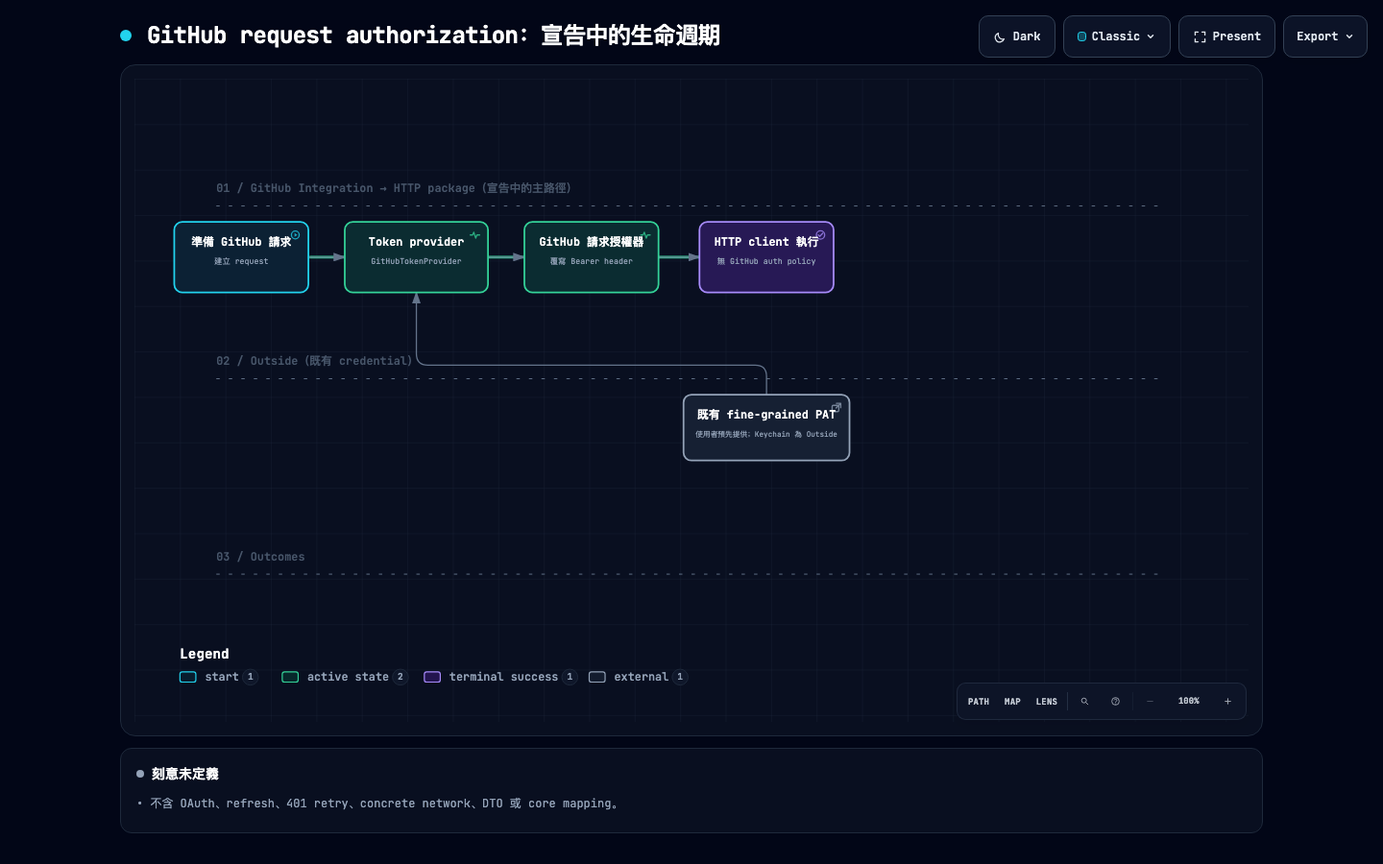
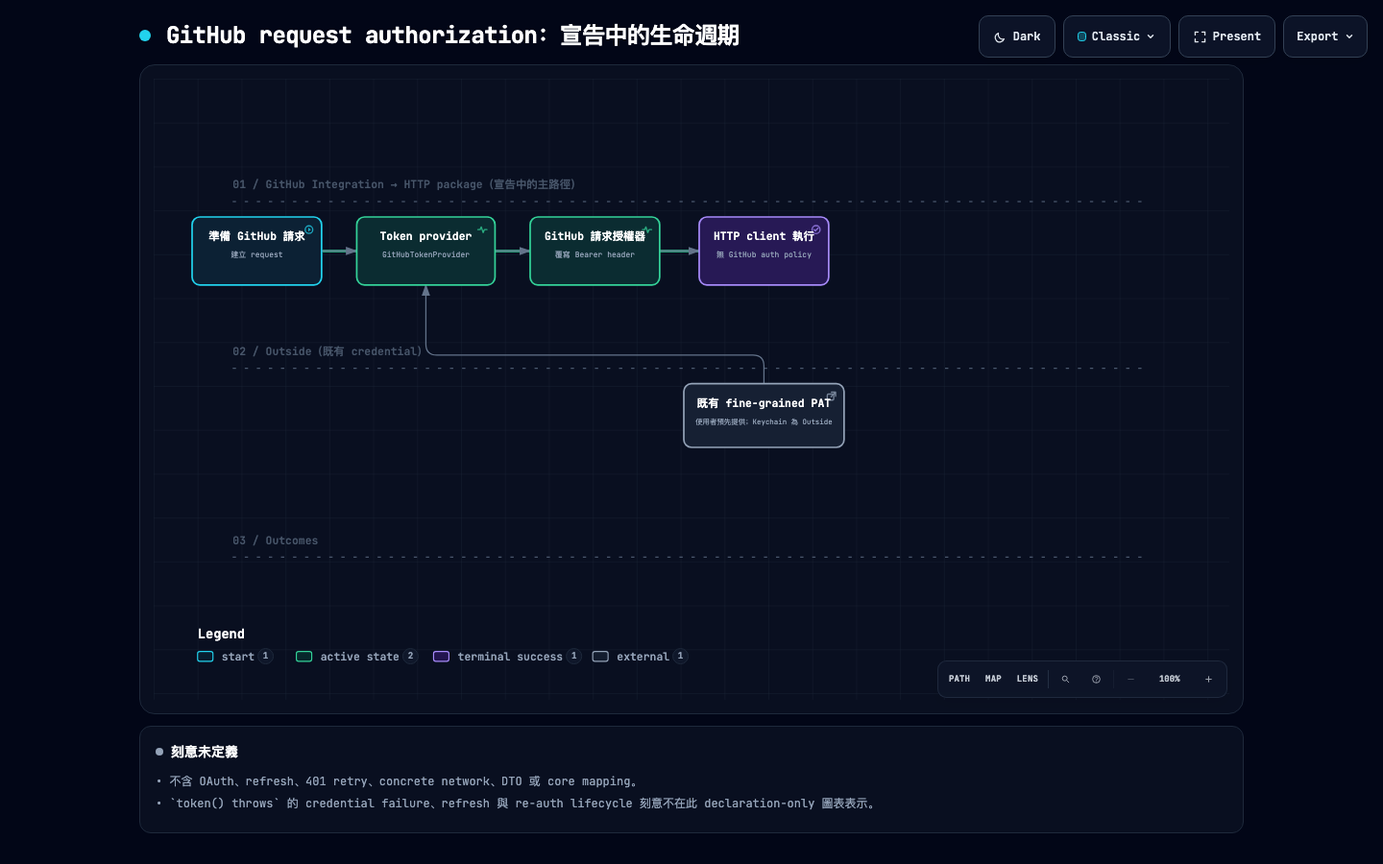
docs(github-integration): 回應授權邊界審查

diff --git a/docs/architecture/diagrams/github-integration-http-client-boundary/index.html b/docs/architecture/diagrams/github-integration-http-client-boundary/index.html
@@ -301,7 +301,8 @@
   // ======================== SCENE START (generated) =========================
 const W = 1480, H = 1800;
 
-// 此圖只記錄 ownership 與 compile-time boundary；不把 HTTP 呼叫畫成 core BC 的 runtime flow。
+// 此圖只記錄 ownership 與 compile-time boundary；request preparation 的 runtime lifecycle
+// 由同目錄的 github-authorization-lifecycle artifact 獨立表達。
 const PLANES = {
   core:        { c: '#7DD3FC', label: '核心 Bounded Context' },
   integration: { c: '#F6821F', label: 'GitHub Integration' },
@@ -365,7 +366,7 @@ const BOXES = [
     texts:[['bl',224,1318,'Foundation URLRequest／URL／Data'],['bs',224,1340,'package 直接使用的 Foundation types']] },
   { id:'credential', plane:'outside', band:'band-outside', x:620,y:1290,w:360,h:68,r:10,
     name:'使用者設定 PAT／Keychain',about:'既有的單一 fine-grained PAT 與其儲存位置都在 Outside；本 topic 不決定 concrete adapter。',
-    texts:[['bl',644,1318,'使用者設定 PAT／Keychain'],['bs',644,1340,'Outside；future provider 讀取']] },
+    texts:[['bl',644,1318,'使用者設定 PAT／Keychain'],['bs',644,1340,'Outside；不屬於 HTTP package']] },
   { id:'urlsession', plane:'outside', band:'band-outside', x:1040,y:1290,w:360,h:68,r:10,
     name:'URLSession／GitHub.com API',about:'future concrete transport 與外部 API；不在此切片實作。',
     texts:[['bl',1064,1318,'URLSession／GitHub.com API'],['bs',1064,1340,'future implementation surface']] }
@@ -376,9 +377,6 @@ const EDGES = [
   { from:'adapter',to:'reader-port',pts:[[470,504],[470,420],[605,420],[605,334]],label:{s:'al',x:619,y:386,t:'符合 Reader Port',rot:-90,anchor:'center'} },
   { from:'adapter',to:'domain-url',pts:[[744,554],[874,554]],label:{s:'al',x:809,y:542,t:'呼叫端組裝',anchor:'center'} },
   { from:'domain-url',to:'http-url',pts:[[1150,604],[1150,860],[335,860],[335,974]],label:{s:'al',x:349,y:726,t:'提供 URL',rot:-90,anchor:'center'} },
-  { from:'token-provider',to:'request-authorizer',pts:[[744,702],[874,702]],label:{s:'al',x:809,y:690,t:'future token delivery',anchor:'center'} },
-  { from:'credential',to:'token-provider',pts:[[800,1284],[800,790],[470,790],[470,760]],label:{s:'al',x:484,y:810,t:'既有 PAT',rot:-90,anchor:'center'} },
-  { from:'request-authorizer',to:'request',pts:[[1150,760],[1150,880],[635,880],[635,974]],label:{s:'al',x:649,y:832,t:'Bearer header',rot:-90,anchor:'center'} },
   { from:'request',to:'http-url',pts:[[494,1024],[474,1024]],label:{s:'al',x:484,y:1012,t:'依賴',anchor:'center'} },
   { from:'client',to:'request',pts:[[794,1024],[776,1024]],label:{s:'al',x:785,y:1012,t:'使用',anchor:'center'} },
   { from:'client',to:'transport',pts:[[1074,1024],[1094,1024]],label:{s:'al',x:1084,y:1012,t:'注入依賴',anchor:'center'} },
@@ -389,13 +387,13 @@ const EDGES = [
 const TEXTS = [
   {s:'title',x:160,y:86,t:'Rivet — GitHub Integration 與 HTTP Client 邊界'},
   {s:'sub',x:160,y:118,t:'Integration 擁有 future authorization seam；HTTP package 維持最小 raw request interface'},
-  {s:'tag',x:160,y:146,runs:[{t:'GitHubTokenProvider',fill:planeColor('integration')},{t:' → ',fill:'#4A5462'},{t:'request authorizer',fill:planeColor('integration')},{t:' → ',fill:'#4A5462'},{t:'HTTPRequest',fill:planeColor('package')},{t:' → ',fill:'#4A5462'},{t:'HTTPClient',fill:planeColor('package')}]},
+  {s:'tag',x:160,y:146,runs:[{t:'Integration-owned authorization seam',fill:planeColor('integration')},{t:' · ',fill:'#4A5462'},{t:'HTTP package raw request interface',fill:planeColor('package')}]},
   {s:'legend',x:1082,y:86,t:'虛線 — Rivet 擁有的 abstraction'},
   {s:'legend',x:1082,y:110,t:'實線 — Foundation 或外部 surface'},
   {s:'legend',x:1143,y:134,t:'顏色 — 所屬的責任 plane'},
   {s:'bn',x:160,y:1530,t:'不變量：HTTP、token 與 infrastructure failure 不得跨越 PR Inbox 或 PR Reader 的 Port'},
   {s:'bn',x:160,y:1550,t:'不變量：RivetHTTPClient 不持有 token、沒有 TokenProvider API，也不處理 refresh 或 401 retry'},
-  {s:'bn',x:160,y:1570,t:'宣告而非實作：future provider／authorizer 屬 GitHub Integration；Keychain 與 PAT 都是 Outside'},
+  {s:'bn',x:160,y:1570,t:'宣告而非實作：future provider／authorizer 屬 GitHub Integration；Keychain 與 PAT 都是 Outside；runtime lifecycle 見獨立圖'},
   {s:'bn',x:160,y:1590,t:'延後：URLSessionTransport、OAuth、Keychain adapter、retry、status validation、decode policy 與 GitHub DTO mapping'}
 ];
 const SWATCHES = [

diff --git a/docs/architecture/diagrams/github-integration-http-client-boundary/scene.js b/docs/architecture/diagrams/github-integration-http-client-boundary/scene.js
@@ -1,6 +1,7 @@
 const W = 1480, H = 1800;
 
-// 此圖只記錄 ownership 與 compile-time boundary；不把 HTTP 呼叫畫成 core BC 的 runtime flow。
+// 此圖只記錄 ownership 與 compile-time boundary；request preparation 的 runtime lifecycle
+// 由同目錄的 github-authorization-lifecycle artifact 獨立表達。
 const PLANES = {
   core:        { c: '#7DD3FC', label: '核心 Bounded Context' },
   integration: { c: '#F6821F', label: 'GitHub Integration' },
@@ -64,7 +65,7 @@ const BOXES = [
     texts:[['bl',224,1318,'Foundation URLRequest／URL／Data'],['bs',224,1340,'package 直接使用的 Foundation types']] },
   { id:'credential', plane:'outside', band:'band-outside', x:620,y:1290,w:360,h:68,r:10,
     name:'使用者設定 PAT／Keychain',about:'既有的單一 fine-grained PAT 與其儲存位置都在 Outside；本 topic 不決定 concrete adapter。',
-    texts:[['bl',644,1318,'使用者設定 PAT／Keychain'],['bs',644,1340,'Outside；future provider 讀取']] },
+    texts:[['bl',644,1318,'使用者設定 PAT／Keychain'],['bs',644,1340,'Outside；不屬於 HTTP package']] },
   { id:'urlsession', plane:'outside', band:'band-outside', x:1040,y:1290,w:360,h:68,r:10,
     name:'URLSession／GitHub.com API',about:'future concrete transport 與外部 API；不在此切片實作。',
     texts:[['bl',1064,1318,'URLSession／GitHub.com API'],['bs',1064,1340,'future implementation surface']] }
@@ -75,9 +76,6 @@ const EDGES = [
   { from:'adapter',to:'reader-port',pts:[[470,504],[470,420],[605,420],[605,334]],label:{s:'al',x:619,y:386,t:'符合 Reader Port',rot:-90,anchor:'center'} },
   { from:'adapter',to:'domain-url',pts:[[744,554],[874,554]],label:{s:'al',x:809,y:542,t:'呼叫端組裝',anchor:'center'} },
   { from:'domain-url',to:'http-url',pts:[[1150,604],[1150,860],[335,860],[335,974]],label:{s:'al',x:349,y:726,t:'提供 URL',rot:-90,anchor:'center'} },
-  { from:'token-provider',to:'request-authorizer',pts:[[744,702],[874,702]],label:{s:'al',x:809,y:690,t:'future token delivery',anchor:'center'} },
-  { from:'credential',to:'token-provider',pts:[[800,1284],[800,790],[470,790],[470,760]],label:{s:'al',x:484,y:810,t:'既有 PAT',rot:-90,anchor:'center'} },
-  { from:'request-authorizer',to:'request',pts:[[1150,760],[1150,880],[635,880],[635,974]],label:{s:'al',x:649,y:832,t:'Bearer header',rot:-90,anchor:'center'} },
   { from:'request',to:'http-url',pts:[[494,1024],[474,1024]],label:{s:'al',x:484,y:1012,t:'依賴',anchor:'center'} },
   { from:'client',to:'request',pts:[[794,1024],[776,1024]],label:{s:'al',x:785,y:1012,t:'使用',anchor:'center'} },
   { from:'client',to:'transport',pts:[[1074,1024],[1094,1024]],label:{s:'al',x:1084,y:1012,t:'注入依賴',anchor:'center'} },
@@ -88,13 +86,13 @@ const EDGES = [
 const TEXTS = [
   {s:'title',x:160,y:86,t:'Rivet — GitHub Integration 與 HTTP Client 邊界'},
   {s:'sub',x:160,y:118,t:'Integration 擁有 future authorization seam；HTTP package 維持最小 raw request interface'},
-  {s:'tag',x:160,y:146,runs:[{t:'GitHubTokenProvider',fill:planeColor('integration')},{t:' → ',fill:'#4A5462'},{t:'request authorizer',fill:planeColor('integration')},{t:' → ',fill:'#4A5462'},{t:'HTTPRequest',fill:planeColor('package')},{t:' → ',fill:'#4A5462'},{t:'HTTPClient',fill:planeColor('package')}]},
+  {s:'tag',x:160,y:146,runs:[{t:'Integration-owned authorization seam',fill:planeColor('integration')},{t:' · ',fill:'#4A5462'},{t:'HTTP package raw request interface',fill:planeColor('package')}]},
   {s:'legend',x:1082,y:86,t:'虛線 — Rivet 擁有的 abstraction'},
   {s:'legend',x:1082,y:110,t:'實線 — Foundation 或外部 surface'},
   {s:'legend',x:1143,y:134,t:'顏色 — 所屬的責任 plane'},
   {s:'bn',x:160,y:1530,t:'不變量：HTTP、token 與 infrastructure failure 不得跨越 PR Inbox 或 PR Reader 的 Port'},
   {s:'bn',x:160,y:1550,t:'不變量：RivetHTTPClient 不持有 token、沒有 TokenProvider API，也不處理 refresh 或 401 retry'},
-  {s:'bn',x:160,y:1570,t:'宣告而非實作：future provider／authorizer 屬 GitHub Integration；Keychain 與 PAT 都是 Outside'},
+  {s:'bn',x:160,y:1570,t:'宣告而非實作：future provider／authorizer 屬 GitHub Integration；Keychain 與 PAT 都是 Outside；runtime lifecycle 見獨立圖'},
   {s:'bn',x:160,y:1590,t:'延後：URLSessionTransport、OAuth、Keychain adapter、retry、status validation、decode policy 與 GitHub DTO mapping'}
 ];
 const SWATCHES = [

diff --git a/docs/architecture/diagrams/github-integration-http-client-boundary/github-authorization-lifecycle.html b/docs/architecture/diagrams/github-integration-http-client-boundary/github-authorization-lifecycle.html
@@ -5323,6 +5323,7 @@
         </div>
         <ul>
           <li>&bull; 不含 OAuth、refresh、401 retry、concrete network、DTO 或 core mapping。</li>
+          <li>&bull; `token() throws` 的 credential failure、refresh 與 re-auth lifecycle 刻意不在此 declaration-only 圖表表示。</li>
         </ul>
       </div>
     </div>

diff --git a/plan/github-integration-auth-boundary/github-integration-auth-boundary.step.md b/plan/github-integration-auth-boundary/github-integration-auth-boundary.step.md
@@ -2,7 +2,7 @@
 
 ## Phase
 
-RV-01 approved；awaiting HR-01 human review
+RV-02 approved；awaiting HR-02 human review
 
 ## Steps
 
@@ -10,16 +10,20 @@ RV-01 approved；awaiting HR-01 human review
 | --- | --- | --- | --- | --- | --- |
 | PC-01 | Plan-Creator | completed | 僅建立與 remediation 四份同 slug planning artifacts；不交付或驗證 long-lived docs／diagram artifacts。 | 四份 artifacts 的 contract、scope、候選產物處理與角色 gate 一致；不宣稱 approval。 | Plan-Reviewer `needs-rework` 已回饋；本次 remediation 將 long-lived delivery 移至 IM-01，加入 TE-01、RV-01 與 HR-01，並記錄 historical deviation。 |
 | PR-01 | Plan-Reviewer | approved | 獨立重審四份 planning artifacts、workflow contract 與 scope drift。 | verdict 明確為 approved、needs-rework 或 blocked；只有 approved 才可進入 IM-01。 | 獨立 Plan-Reviewer final verdict：approved；四份 artifacts complete，workflow／candidate cleanup／contract-only 已驗證，且 `git diff --check` 通過。此為獨立 review evidence，非 Plan-Creator 自我 approval。 |
-| IM-01 | Implementer | completed | 僅在 PR-01 approved 後，對 final long-lived docs／diagrams 執行受限 delivery：確認 canonical contract、移除兩組 containment candidate、交付 canonical lifecycle 與 canvas。 | candidate 已移除；交付僅含 canonical lifecycle JSON／HTML／canonical visual-check evidence；BC 文件、architecture README 與 canvas 符合 locked contract；無 Swift implementation。 | canonical delivery 已存在於 `docs/architecture/README.md`、`bounded-contexts/github-integration.md`、Integration／HTTP canvas（`scene.js`／`index.html`）及 `github-authorization-lifecycle.{json,html,visual-check.*}`。兩組 containment candidate 共 16 個檔案已移除；`git ls-files`、`git log --all` 與 worktree path search 均無命中，無法由 Git 還原。既有 canvas receipt：validate → build → enhance → accessibility verify 通過。既有 Archify receipt：showcase validate、deliver、four desktop viewport（1440×900、1600×1000、1920×1080、2048×1320；light／dark）visual-check 通過；receipt `status: pass`、四種 viewport 均無 X/Y overflow、minimum projected node text 6.5px ≥ 6px。交付 diff 無 Swift／`packages/RivetHTTPClient` scope。此為 Implementer reconciliation evidence，非 Tester verdict。 |
+| IM-01 | Implementer | completed | 僅在 PR-01 approved 後，對 final long-lived docs／diagrams 執行受限 delivery：確認 canonical contract、移除兩組 containment candidate、交付 canonical lifecycle 與 canvas。 | candidate 已移除；交付僅含 canonical lifecycle JSON／HTML／canonical visual-check evidence；BC 文件、architecture README 與 canvas 符合 locked contract；無 Swift implementation。 | canonical delivery 已存在於 `docs/architecture/README.md`、`bounded-contexts/github-integration.md`、Integration／HTTP canvas（`scene.js`／`index.html`）及 `github-authorization-lifecycle.{json,html,visual-check.*}`。兩組 containment candidate 共 16 個檔案已移除；`git ls-files`、`git log --all` 與 worktree path search 均無命中，無法由 Git 還原。既有 canvas receipt：validate → build → enhance → accessibility verify 通過。既有 Archify receipt：showcase validate、deliver、四種 desktop viewport（1440×900、1600×1000、1920×1080、2048×1320）的 light containment／readability 通過；另有 1440×900 與 2048×1320 的 light／dark captures。receipt `status: pass`、四種 viewport 均無 X/Y overflow、minimum projected node text 6.5px ≥ 6px。交付 diff 無 Swift／`packages/RivetHTTPClient` scope。此為 Implementer reconciliation evidence，非 Tester verdict。 |
[1 lines of base64/hex data omitted]
 | RV-01 | Reviewer | approved | 僅在 TE-01 completed 後，獨立審查 contract、scope、workflow 與 Tester evidence。 | verdict 明確；任何 scope／contract／workflow drift 優先保守收斂。 | 獨立 Reviewer verdict：`approved`。contract、scope 與 evidence 均 approved；Chrome DevTools `SIGABRT` 導致 fresh visual-check 未完成的 environment exception 已被接受，但必須在 draft PR 原樣揭露。此為獨立 review evidence，非 Plan-Creator 自我 approval。 |
 | HR-01 | Human review | pending | 僅在 RV-01 approved 後，由 human 審查 draft PR／delivery。 | human 明確決定後續處置；不得由任何 agent 視同 approval。 | human decision。 |
[2 lines of base64/hex data omitted]
+| RV-02 | Reviewer | approved | 僅在 TE-02 completed 後，獨立審查 review remediation、scope 與 evidence。 | verdict 明確；任何 drift 優先保守收斂。 | 獨立 Reviewer verdict：`approved`。PR #17 threads 1–8 remediation、static／receipt／current SHA binding／scope evidence 均已接受；TE-02 的 human-authorized same-SHA environment exception 已接受。Tester fresh visual-check 的 Chrome DevTools intermittent `SIGABRT` 未被誤稱為 pass，且必須原樣保留在 PR。此為獨立 review evidence，非 Plan-Creator 自我 approval。 |
+| HR-02 | Human review | pending | 僅在 RV-02 approved 後，由 human 對更新後 PR delivery 進行 review。 | human 明確決定後續處置；不得由任何 agent 視同 approval。 | 待 human decision。 |
 
 ## Blockers
 
 無已知 implementation blocker。歷史 workflow deviation 已發現：long-lived docs、canvas、canonical lifecycle artifact 與兩組 containment candidate 曾在 Plan-Creator 階段出現在 worktree。此事實不代表 approval，亦不改寫角色歷史。PR-01 已由獨立 Plan-Reviewer approved；human 已明確授權繼任 Implementer 將 IM-01 標記 completed 並記錄既有 delivery evidence。
 
[2 lines of base64/hex data omitted]
 
 ## Human Check
 
@@ -27,30 +31,41 @@ Human 必須在 draft PR 檢查 architecture boundary 是否維持：GitHub Inte
 
 ## Handoff
 
-- Current phase：RV-01 approved；僅可進入 HR-01 human review。
-- Upstream verdict：`approved`；source 為獨立 Plan-Reviewer final verdict。
+- Current phase：RV-02 approved；僅可進入 HR-02 human review。
+- Upstream verdict：`approved`；source 為獨立 Reviewer RV-02 verdict。PR-01 的 Plan-Reviewer approval 與 RV-01 的獨立 Reviewer approval 保留在各自 gate evidence。
 - Completed gate：IM-01；source 為 human 明確授權與 Implementer reconciliation evidence。
 - Completed gate：TE-01 with exception；receipt metadata remediation 已重新驗證。既有 Archify／canvas／scope evidence及 historical visual-check receipt 仍受限；fresh visual-check 沒有本輪 pass，Chrome DevTools `SIGABRT` 必須原樣保留。
 - Completed gate：RV-01；獨立 Reviewer 已 approved contract、scope 與 evidence，並接受 fresh visual-check 的 Chrome DevTools `SIGABRT` environment exception；draft PR 必須原樣揭露。
+- Completed gate：IM-02；PR #17 threads 1–8 的 Implementer remediation 已交付 fresh current lifecycle receipt。
+- Completed gate：TE-02 with exception；獨立 Tester 已驗證 current receipt／HTML binding、static canvas／Archify pipeline、candidate absence、絕對路徑清理與 scope。Chrome DevTools intermittent `SIGABRT` 阻止本輪獨立 visual-check；human 接受 Implementer same-SHA fresh pass 與 Tester frozen deliver／canonical HTML byte identity 的受限 environment exception，未宣稱 Tester independent pass。
+- Completed gate：RV-02；獨立 Reviewer 已接受 PR #17 threads 1–8 remediation、static／receipt／current SHA binding／scope evidence，以及 TE-02 的 human-authorized same-SHA environment exception。Tester fresh visual-check 的 Chrome DevTools intermittent `SIGABRT` 未被誤稱為 pass，且必須原樣保留在 PR。
 - Requested next owner：Human review。
-- Next gate：HR-01；等待 human 對 draft PR／delivery 作出明確決定，不得由任何 agent 視同 approval。
+- Next gate：HR-02；等待 human 對更新後 PR delivery 作出明確決定，不得由任何 agent 視同 approval。
 
 ## Last Updated
 
-2026-09-07（Plan-Reviewer `needs-rework` remediation completed：補齊 Last Updated 與 upstream verdict `null`；PR-01 仍 pending，未取得 approval。）
+下列為 2026-09-07 同日紀錄的明確歷史順序（01 最早、09 最新）；每筆只描述當時狀態，不代表目前 gate。
 
-2026-09-07（獨立 Plan-Reviewer final verdict `approved`：四份 artifacts complete、workflow／candidate cleanup／contract-only 已驗證，且 `git diff --check` 通過；本次僅如實更新 PR-01 ledger，非 Plan-Creator 自我 approval。）
+2026-09-07／01（當時狀態：Plan-Reviewer `needs-rework` remediation completed；補齊 Last Updated 與 upstream verdict `null`；PR-01 仍 pending，未取得 approval。）
 
-2026-09-07（最小 ledger correction：PR-01 已 approved；等待 IM-01 evidence reconciliation，之後進入 TE-01；未宣稱 IM-01 completed。）
+2026-09-07／02（當時狀態：獨立 Plan-Reviewer final verdict `approved`；四份 artifacts complete、workflow／candidate cleanup／contract-only 已驗證，且 `git diff --check` 通過；本次僅如實更新 PR-01 ledger，非 Plan-Creator 自我 approval。）
 
-2026-09-07（human 明確授權：IM-01 標記 `completed` 並記錄既有 canonical docs／canvas／lifecycle delivery evidence。Implementer 已如實記錄 16 個 containment candidate 移除且無 Git 可還原來源、canvas validate/build/enhance/accessibility verify、Archify validate/deliver／four desktop viewport visual-check、candidate absence 與無 Swift scope；轉交 TE-01 獨立驗證。）
+2026-09-07／03（當時狀態：最小 ledger correction；PR-01 已 approved；等待 IM-01 evidence reconciliation，之後進入 TE-01；未宣稱 IM-01 completed。）
 
-2026-09-07（human 明確授權 environment exception：Chrome 重裝後 fresh Archify visual-check 仍因 Chrome DevTools `SIGABRT` 無法完成。TE-01 可使用 canonical lifecycle 既有 four-viewport pass receipt 與 frozen JSON deliver HTML 的 SHA evidence 繼續，但不得宣稱本輪 visual-check pass；此 limitation 必須在 Tester report 明示並交由 RV-01 審查。）
+2026-09-07／04（當時狀態：human 明確授權 IM-01 標記 `completed` 並記錄既有 canonical docs／canvas／lifecycle delivery evidence。Implementer 已如實記錄 16 個 containment candidate 移除且無 Git 可還原來源、canvas validate/build/enhance/accessibility verify、Archify validate/deliver／four desktop viewport visual-check、candidate absence 與無 Swift scope；轉交 TE-01 獨立驗證。）
 
-2026-09-07（獨立 Tester：TE-01 `completed with exception`。Archify showcase validate 與 frozen JSON temp deliver 通過，deliver HTML 與 canonical byte-identical；canonical historical visual-check receipt 的四個 viewport 均 pass。canvas validate/build/enhance/accessibility、candidate absence、`git diff --check` 與 scope audit 通過。fresh visual-check 因 Chrome DevTools `SIGABRT` 未完成，沒有本輪 pass；依 human-approved exception 原樣交由 RV-01 審查。）
+2026-09-07／05（當時狀態：human 明確授權 environment exception；Chrome 重裝後 fresh Archify visual-check 仍因 Chrome DevTools `SIGABRT` 無法完成。TE-01 可使用 canonical lifecycle 既有 four-viewport pass receipt 與 frozen JSON deliver HTML 的 SHA evidence 繼續，但不得宣稱本輪 visual-check pass；此 limitation 必須在 Tester report 明示並交由 RV-01 審查。）
 
-2026-09-07（Implementer receipt remediation：依 Reviewer `needs-rework`，僅將 canonical visual-check receipt 的 artifact path 由本機絕對路徑改為 truthful repository-relative path；未改動 lifecycle source JSON／HTML、screenshots、viewport、containment、readability、SHA 或 receipt 結論。fresh visual-check exception 仍未解除，TE-01 重新開啟，須依序重走 TE-01 → RV-01。）
+2026-09-07／06（當時狀態：獨立 Tester TE-01 `completed with exception`。Archify showcase validate 與 frozen JSON temp deliver 通過，deliver HTML 與 canonical byte-identical；canonical historical visual-check receipt 的四個 viewport 均 pass。canvas validate/build/enhance/accessibility、candidate absence、`git diff --check` 與 scope audit 通過。fresh visual-check 因 Chrome DevTools `SIGABRT` 未完成，沒有本輪 pass；依 human-approved exception 原樣交由 RV-01 審查。）
 
-2026-09-07（獨立 Tester receipt remediation re-verification：canonical visual-check JSON valid、artifact path truthful repository-relative、topic／delivery artifacts 無使用者本機絕對路徑；canonical JSON／HTML SHA 與 historical 四 viewport receipt 事實未改寫。Archify showcase validate/deliver byte identity、canvas static validation、candidate absence、scope audit 與 `git diff --check` 通過。依 human-approved exception 未重跑 visual-check；Chrome DevTools `SIGABRT` 未解除，故 TE-01 為 `completed with exception`，僅路由 RV-01，沒有本輪 visual-check pass。）
+2026-09-07／07（當時狀態：Implementer receipt remediation；依 Reviewer `needs-rework`，僅將 canonical visual-check receipt 的 artifact path 由本機絕對路徑改為 truthful repository-relative path；未改動 lifecycle source JSON／HTML、screenshots、viewport、containment、readability、SHA 或 receipt 結論。fresh visual-check exception 仍未解除，TE-01 重新開啟，須依序重走 TE-01 → RV-01。）
 
-2026-09-07（獨立 Reviewer：RV-01 `approved`。contract、scope 與 evidence approved；fresh Archify visual-check 因 Chrome DevTools `SIGABRT` 未完成的 environment exception 被接受，但必須在 draft PR 原樣揭露。轉交 HR-01 human review；未宣稱 human review 已完成。）
+2026-09-07／08（當時狀態：獨立 Tester receipt remediation re-verification；canonical visual-check JSON valid、artifact path truthful repository-relative、topic／delivery artifacts 無使用者本機絕對路徑；canonical JSON／HTML SHA 與 historical 四 viewport receipt 事實未改寫。Archify showcase validate/deliver byte identity、canvas static validation、candidate absence、scope audit 與 `git diff --check` 通過。依 human-approved exception 未重跑 visual-check；Chrome DevTools `SIGABRT` 未解除，故 TE-01 為 `completed with exception`，僅路由 RV-01，沒有本輪 visual-check pass。）
+
+2026-09-07／09（當時狀態：獨立 Reviewer RV-01 `approved`。contract、scope 與 evidence approved；fresh Archify visual-check 因 Chrome DevTools `SIGABRT` 未完成的 environment exception 被接受，但必須在 draft PR 原樣揭露。轉交 HR-01 human review；未宣稱 human review 已完成。）
+
+2026-09-07／10（目前狀態：Implementer 完成 PR #17 threads 1–8 remediation。canvas 改為僅表達責任／compile-time boundary；lifecycle 明示 `token() throws` 的 credential failure、refresh 與 re-auth lifecycle 未在 declaration-only 圖表表示；local BUILD entry 補齊 lifecycle validate／deliver／visual-check 與 sidecar policy。current lifecycle HTML 已重新 deliver，fresh visual-check `status: pass`；四種 desktop viewport 為 light containment／readability，僅 1440×900 與 2048×1320 有 light／dark captures。receipt 已匿名本機 artifact 與 Chrome executable paths。此為 Implementer evidence；TE-02 pending，未宣稱獨立測試或 Reviewer approval。）
+
+2026-09-07／11（目前狀態：獨立 Tester TE-02 `completed with exception`。current JSON／HTML SHA 與 receipt 一致；Archify showcase validate 9/9、frozen JSON temp deliver／canonical HTML byte identity、canvas static pipeline、candidate absence、絕對路徑與 Swift／HTTP scope audit 均通過。Tester fresh visual-check 因 Chrome DevTools intermittent `SIGABRT` 未完成，沒有本輪獨立 pass。human 明確接受同一 canonical SHA 的 Implementer fresh four-viewport pass 加 Tester frozen deliver／canonical HTML byte identity 作為受限 environment exception；僅路由 RV-02。）
+
+2026-09-07／12（目前狀態：獨立 Reviewer RV-02 `approved`。PR #17 threads 1–8 remediation、static／receipt／current SHA binding／scope evidence 均已接受；TE-02 的 human-authorized same-SHA environment exception 已接受。Tester fresh visual-check 的 Chrome DevTools intermittent `SIGABRT` 未被誤稱為 pass，且必須原樣保留在 PR。僅路由 HR-02 human review；未宣稱 human review 已完成。）

diff --git a/docs/architecture/diagrams/github-integration-http-client-boundary/BUILD.md b/docs/architecture/diagrams/github-integration-http-client-boundary/BUILD.md
@@ -23,3 +23,20 @@ node verify-accessibility.js --input index.html
 ```
 
 `scene.js` 是圖表資料的唯一真相；enhancer 從 runtime scene 資料生成文字替代內容，verifier 檢查交付的可近用性約束。
+
+## 重建 declaration-only authorization lifecycle
+
+此 artifact 的 source 是 `github-authorization-lifecycle.json`；它與 canvas 的責任邊界不同，只表達 declaration-only lifecycle。設定 `ARCHIFY_SKILL` 為 Archify skill 根目錄，然後依序執行：
+
+```sh
+set -e
+node "$ARCHIFY_SKILL/bin/archify.mjs" validate lifecycle \
+  github-authorization-lifecycle.json --quality showcase --json
+node "$ARCHIFY_SKILL/bin/archify.mjs" deliver lifecycle \
+  github-authorization-lifecycle.json \
+  github-authorization-lifecycle.html --quality showcase --json
+node "$ARCHIFY_SKILL/bin/archify.mjs" visual-check \
+  github-authorization-lifecycle.html --json
+```
+
+`deliver` 會將 frozen JSON 交付為 canonical HTML；`visual-check` 會同步更新 HTML SHA 綁定的 visual-check receipt、contact sheet 與 light／dark screenshot sidecars。若 Chrome／Chromium 無法使用，visual-check 會以非零結果與 `skipped` receipt 如實停止，並移除過期 capture sidecars；不得保留舊 evidence 並稱為 fresh pass。提交 receipt 前，將 `artifact.path` 保持為 repository-relative path，並移除 Chrome executable 的本機路徑；保留 Chrome product identity 與其他量測結果。
